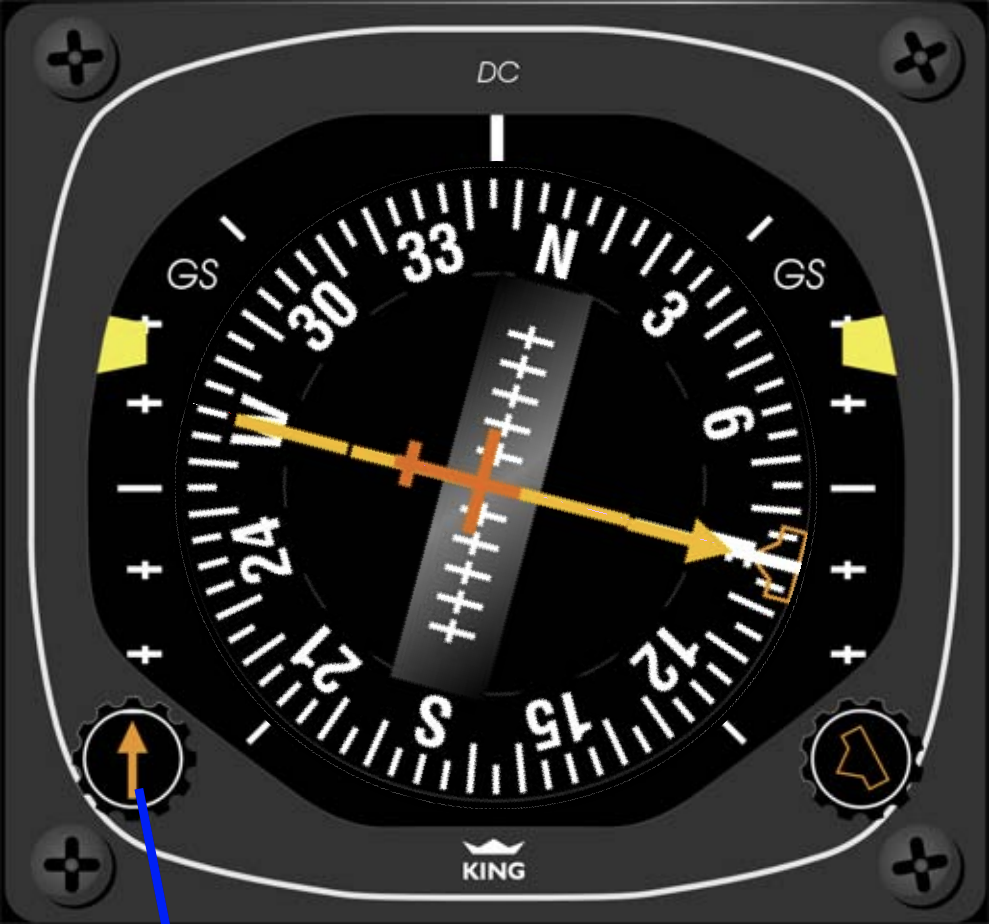
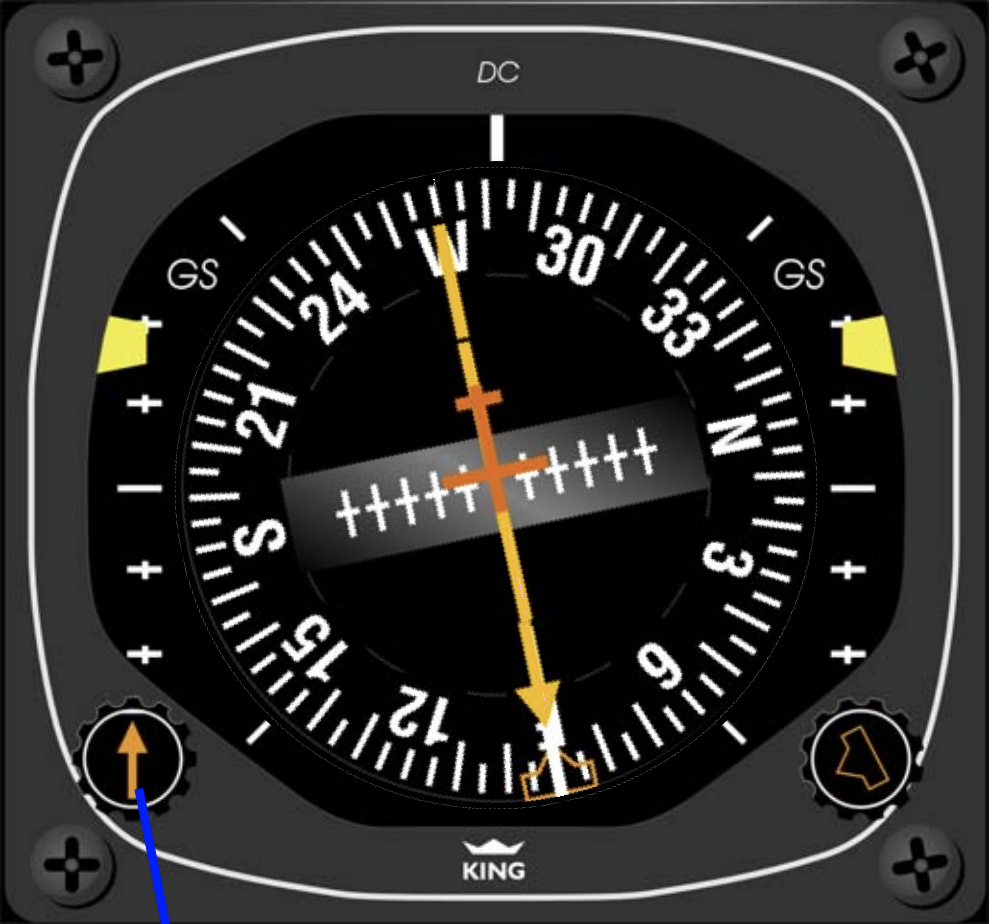
summary

Changed region(s): [[0.1875, 0.1818, 0.8125, 0.8788]]

diff --git a/Python HW Link/pytimeplay_v4.py b/Python HW Link/pytimeplay_v4.py
@@ -13,18 +13,31 @@ class SimpleApp(object):
     def __init__(self, master, **kwargs):
         self.master = master
 
-        
-        image = Image.open("HSI copy 2.png")
-        eyes = image.convert("RGBA")
+        img = ImageTk.PhotoImage(Image.open("HSI copy 2.png"))
+        self.panel = Label(root, image = img)
+        self.panel.pack(side = "bottom", fill = "both", expand = "yes")
         
 
-        newface = face.copy()
-        newface.paste(eyes, (175, 167), eyes)
-        facepic = ImageTk.PhotoImage(newface)
-        self.label1 = Label(image=facepic)
-        self.label1.grid(row = 0, column = 0)
-        
-        master.after(3000, self.update_image)
+
+##
+##        
+##
+##        
+##        image2 = Image.open("HSI copy 2.png")
+##        eyes = image2.convert("RGBA")
+##        
+##
+##        # When working with images largely pointers so need to explicity copy image
+##        # as opposed to just assignment
+##        
+##        newface = face.copy()
+##        newface.paste(eyes, (500, 500), eyes)
+##        facepic = ImageTk.PhotoImage(image2)
+##        #self.label1 = Label(image=facepic)
+##        #self.label1 = Label(image=eyes)
+##        #self.label1.grid(row = 0, column = 0)
+##        
+        master.after(10000, self.update_image)
 
     def update_image(self):
 
@@ -32,39 +45,44 @@ class SimpleApp(object):
         global face
         global newface
 
-
-
-        angle += 9
-        angle %= 360      
-        image = Image.open("HSI copy 2.png")
-        image = image.rotate(angle)
-        eyes = image.convert("RGBA")
+        #img = ImageTk.PhotoImage(Image.open("HSI copy 2.png"))
+        #self.panel = Label(root, image = img)
         
+        #self.panel.pack(side = "bottom", fill = "both", expand = "yes")
 
-        newface = face.copy()
-        newface.paste(eyes, (175, 167), eyes)
-        facepic = ImageTk.PhotoImage(newface)
-        print('width :' + str(eyes.width))
-        print('height :' + str(eyes.height))
-        print(eyes)
-        print(face)
-        print(newface)
-        print(facepic)
+##        angle += 9
+##        angle %= 360      
+##        image = Image.open("HSI copy 2.png")
+##        image = image.rotate(angle)
+##        eyes = image.convert("RGBA")
+##        
+##
+##        newface = face.copy()
+##        newface.paste(eyes, (175, 167), eyes)
+##        facepic = ImageTk.PhotoImage(newface)
+##        print('angle :' + str(angle))
+##        print('width :' + str(eyes.width))
+##        print('height :' + str(eyes.height))
+##        print(eyes)
+##        print(face)
+##        print(newface)
+##        print(facepic)
         
 ##        if angle > 130:
 ##            newface.save('image_400.png')
 ##            face.save('image_401.png')
 ##            eyes.save('image_402.png')
 ##            image.save('image_403.png')
-##            time.sleep(5)
+##            time.sleep(1)
 
 
 
-        self.label1 = Label(image=facepic)
-        
-        #self.after_idle(self.update_image) 
+##        self.label1 = Label(image=facepic)
+##        
+##        #self.after_idle(self.update_image) 
 
-        self.label1.after(100, self.update_image)
+##        self.label1.after(100, self.update_image)
+        self.panel.after(100, self.update_image)
 
              
 
@@ -79,7 +97,7 @@ image = image.rotate(angle)
 
 face = RBGAImage("HSI Outline.png")
 eyes = image.convert("RGBA")
-#eyes = RBGAImage("HSI copy 2.png")
+eyes = RBGAImage("HSI copy 2.png")
 
 eyes.rotate(angle)
 
@@ -87,7 +105,14 @@ newface = face.copy()
 
 newface.paste(eyes, (175, 167), eyes)
 
-facepic = ImageTk.PhotoImage(newface)
+#facepic = ImageTk.PhotoImage(newface)
+facepic = ImageTk.PhotoImage(face)
+
+
+######
+
+
+######
 
 
 

diff --git a/Python HW Link/test_py_image.py b/Python HW Link/test_py_image.py
@@ -14,7 +14,8 @@ class SimpleApp(object):
         self.canvas.pack()
 
         self.update = self.draw().__next__
-        master.after(300, self.update)
+        
+        master.after(200, self.update)
 
     def draw(self):
 
@@ -35,7 +36,7 @@ class SimpleApp(object):
         angle = 0
         while True:
             #canvas_obj = self.canvas.create_rectangle(0,0,20,20,fill='red')
-            
+            start_time = time.time()
             image = Image.open(self.filename)
             image2 = Image.open("HSI Outline.png")
             tkimage2 = ImageTk.PhotoImage(image2)
@@ -60,6 +61,8 @@ class SimpleApp(object):
             self.canvas.delete(canvas_obj)
             angle += 1
             angle %= 360
+            elapsed_time = time.time() - start_time
+            print("Time taken :" + str(elapsed_time))
 
 root = tk.Tk()
 

diff --git a/Python HW Link/image_hack_20190305a.py b/Python HW Link/image_hack_20190305a.py
@@ -1,0 +1,35 @@
+from tkinter import *
+from PIL import ImageTk, Image
+import os
+
+root = Tk()
+
+
+def RBGAImage(path):
+    return Image.open(path).convert("RGBA")
+
+class SimpleApp(object):
+    def __init__(self, master, **kwargs):
+        self.master = master
+
+
+
+        master.after(1000, self.update_image)
+
+    def update_image(self):
+
+        img2 = ImageTk.PhotoImage(Image.open("HSI copy 2.png"))
+        self.panel1 = Label(root, image = img2)
+        self.panel1.pack(side = "top", fill = "both", expand = "yes")
+        self.panel1.after(1000, self.update_image)
+        print('Alive')
+
+
+img = ImageTk.PhotoImage(Image.open("HSI copy 2.png"))
+##panel = Label(root, image = img)
+##panel.pack(side = "bottom", fill = "both", expand = "yes")
+
+
+app = SimpleApp(root)
+
+root.mainloop()
